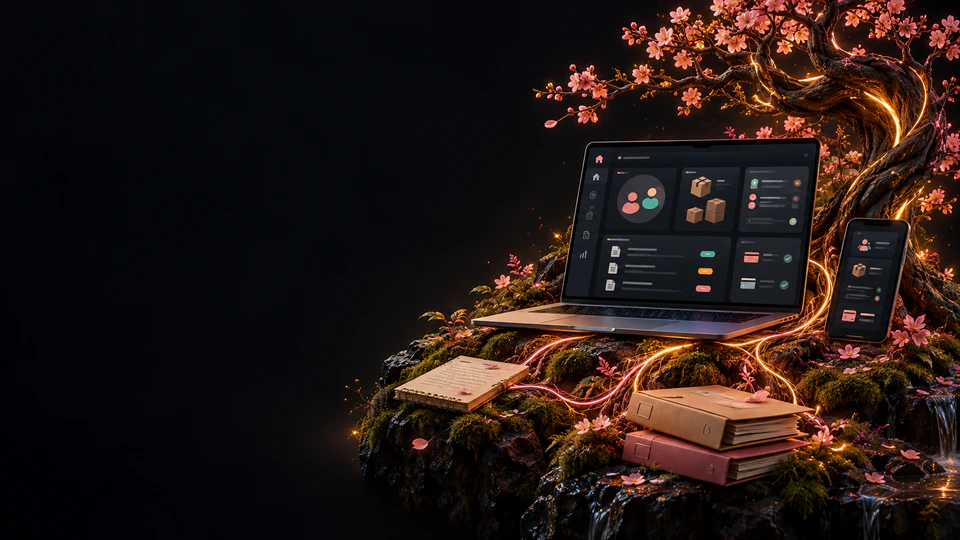
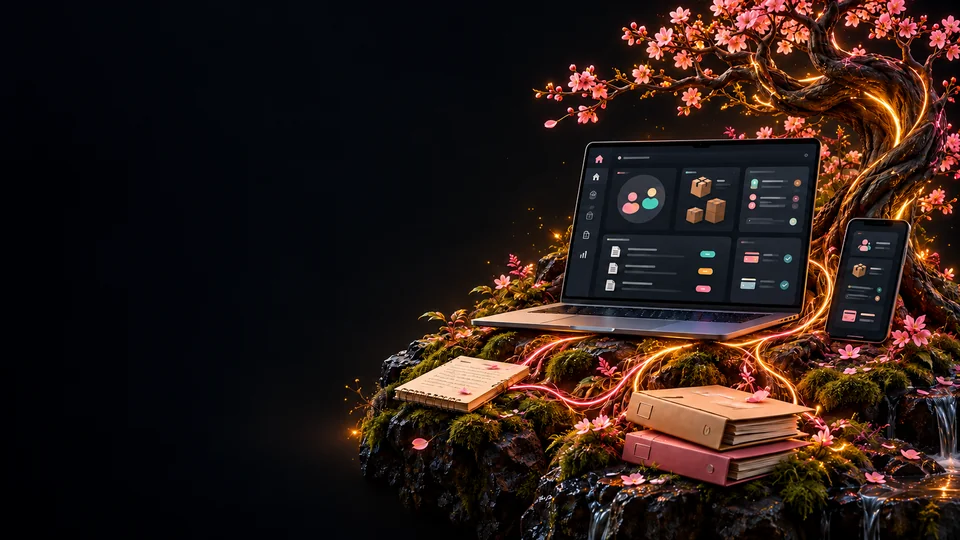
feat(hero): nueva foto 1920x1080 en WebP

diff --git a/src/components/landing/landing-sections.test.tsx b/src/components/landing/landing-sections.test.tsx
@@ -90,7 +90,7 @@ describe('HeroSection', () => {
     expect(background).toHaveAttribute('src', '/hero/hero.webp')
     expect(background).toHaveAttribute(
       'srcset',
-      '/hero/hero-960.webp 960w, /hero/hero.webp 1672w',
+      '/hero/hero-960.webp 960w, /hero/hero.webp 1920w',
     )
     expect(background).toHaveAttribute('alt', '')
     expect(background).toHaveAttribute('aria-hidden', 'true')

diff --git a/src/components/landing/hero-section.tsx b/src/components/landing/hero-section.tsx
@@ -42,7 +42,7 @@ export function HeroSection({ hero, whatsappUrl }: HeroSectionProps) {
       <div className="absolute inset-0 z-0">
         <img
           src="/hero/hero.webp"
-          srcSet="/hero/hero-960.webp 960w, /hero/hero.webp 1672w"
+          srcSet="/hero/hero-960.webp 960w, /hero/hero.webp 1920w"
           sizes="100vw"
           alt=""
           aria-hidden="true"
